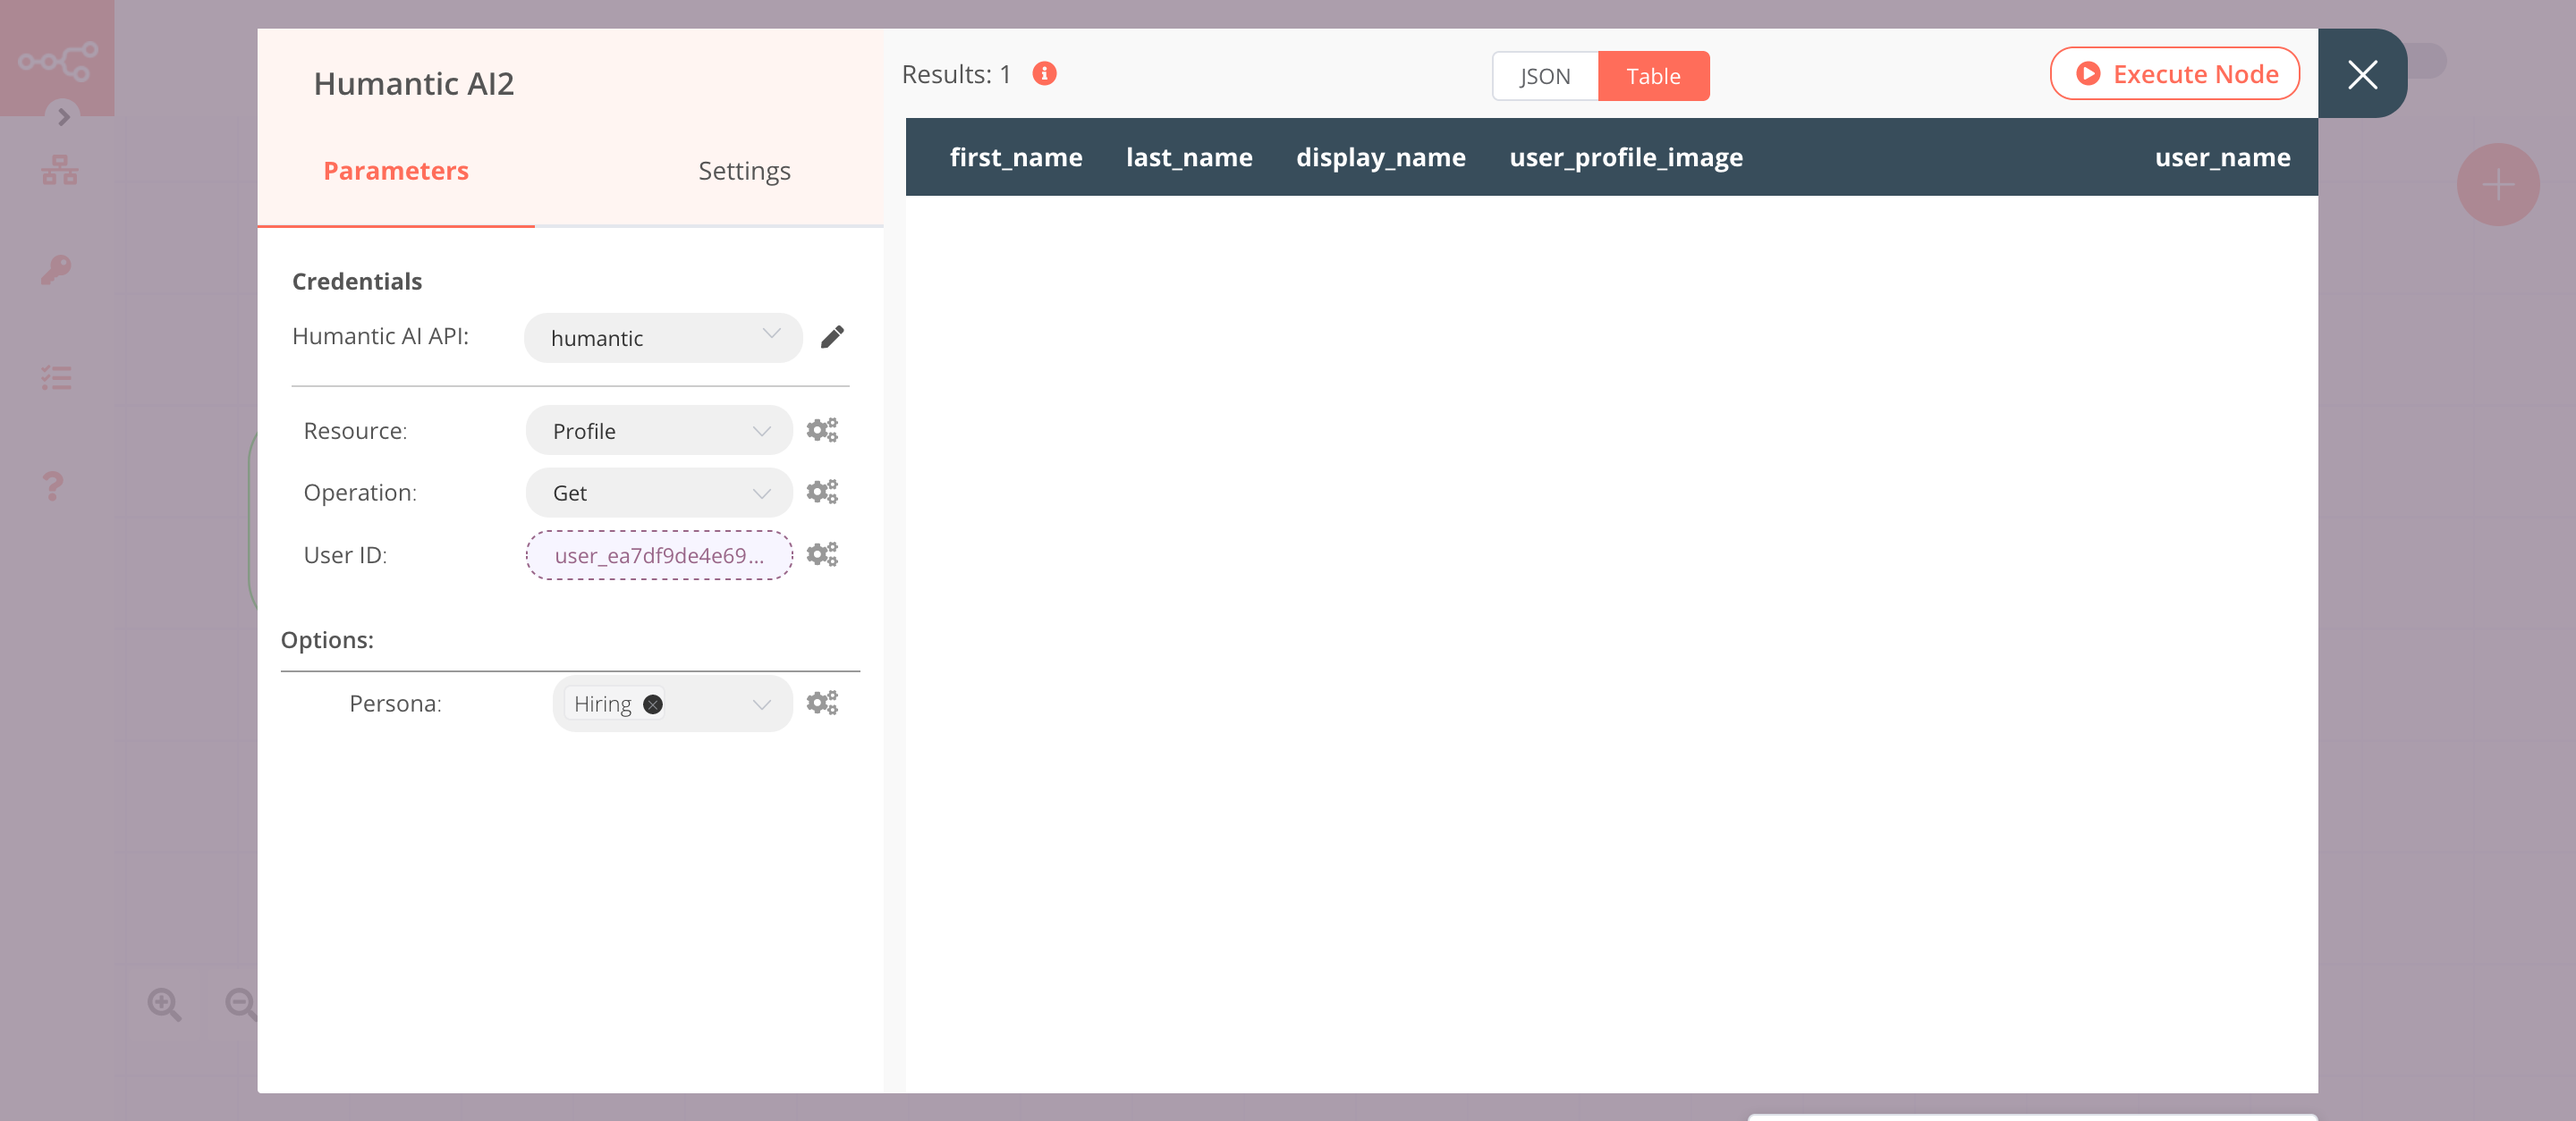
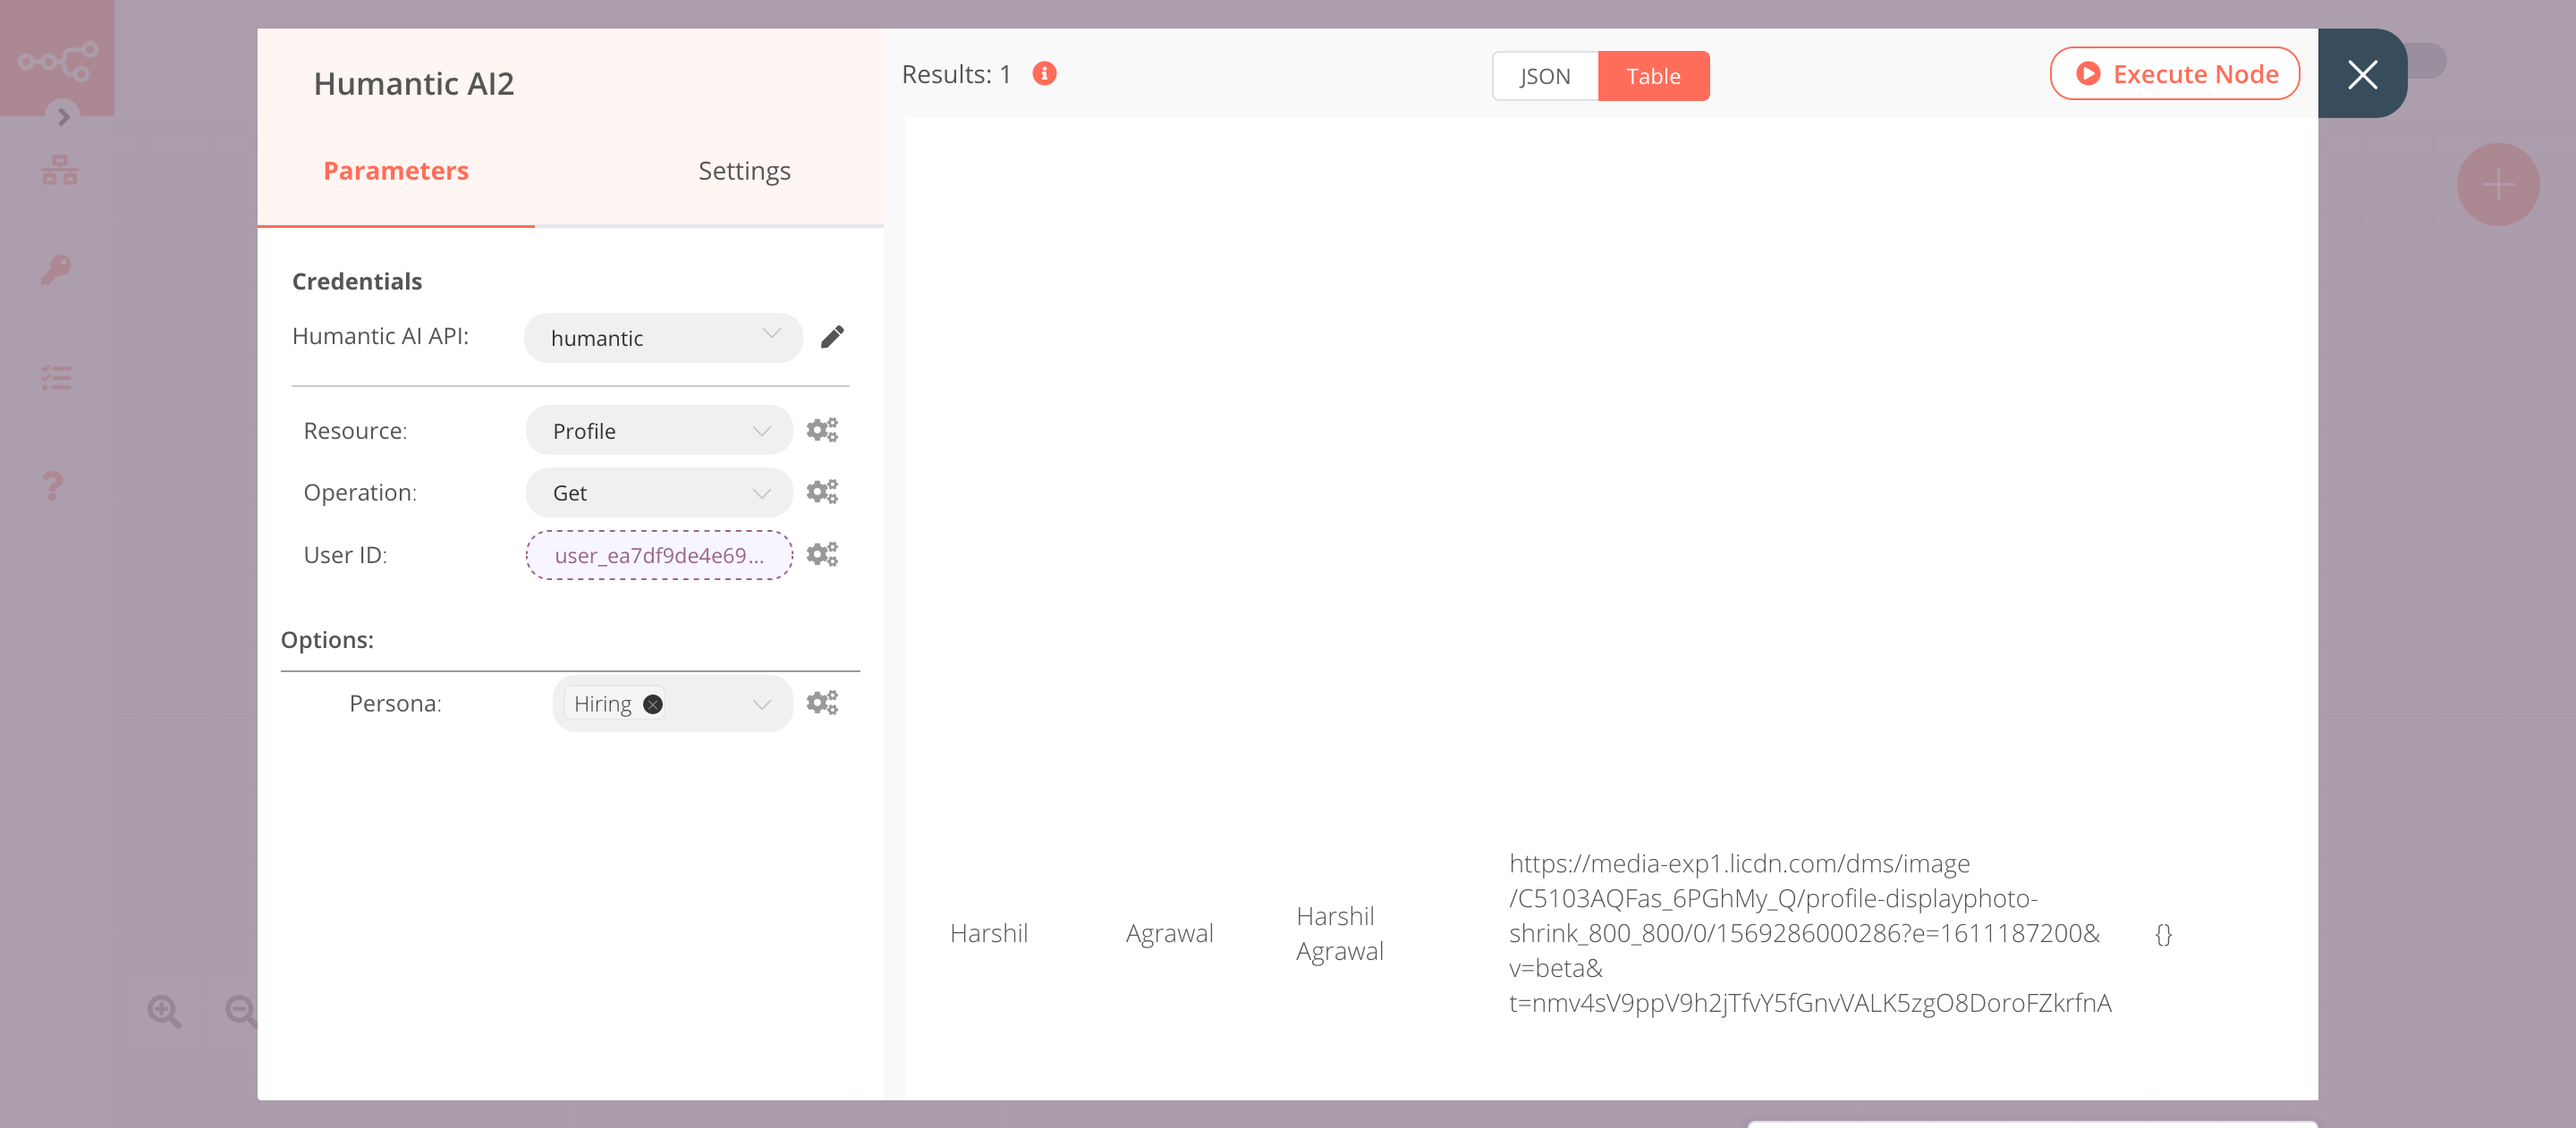
🔨Fix screenshot

diff --git a/docs/nodes/nodes-library/nodes/HumanticAi/README.md b/docs/nodes/nodes-library/nodes/HumanticAi/README.md
@@ -86,6 +86,6 @@ This node will return the `Hiring` persona for the candidate that we created usi
 5. Select 'Hiring' from the ***Persona*** dropdown list.
 6. Click on ***Execute Node*** to run the node.
 :::
-In the screenshot below, you will notice that the node returns the `Hiring` persona for the candidate that we created using the Humantic AI node.
+In the screenshot below, you will notice that the node returns the `Hiring` persona for the candidate that we created using the Humantic AI node (column headers are not visible in the image since we've scrolled down to show the data).
 
 ![Using the Humantic AI node to get the information of the candidate](./HumanticAi2_node.png)
